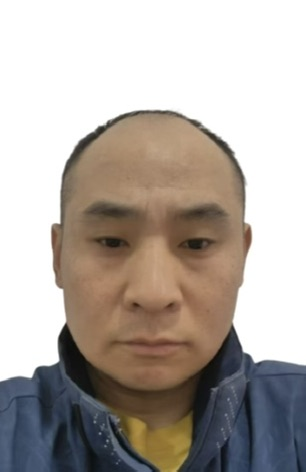
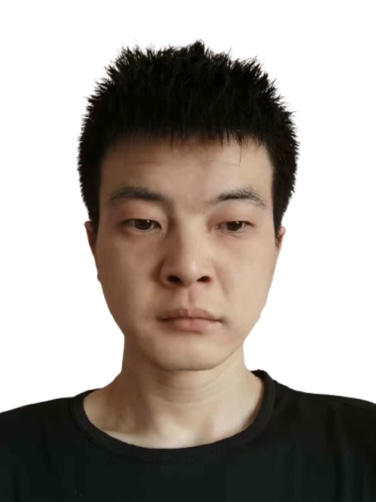
1111

diff --git a/health.html b/health.html
@@ -171,11 +171,11 @@
                                 </tr>
                                  <!-- 海07492100691  44970117  前部分固定形式，后面可变 -->
                                 <tr>
-                                  <td style="font-size: 10px;font-family: 宋体;font-weight: bold;word-break: break-all;">编号:海0749210069108180434
+                                  <td style="font-size: 10px;font-family: 宋体;font-weight: bold;word-break: break-all;">编号:海0749210069108181919
                                   </td>
                                 </tr>
                                 <tr>
-                                  <td style="font-size: 10px;font-family: 宋体;font-weight: bold;">日期:2026-04-26</td>
+                                  <td style="font-size: 10px;font-family: 宋体;font-weight: bold;">日期:2026-06-16</td>
                                 </tr>
                               </tbody>
                             </table>
@@ -191,7 +191,7 @@
                                       <tbody>
                                         <tr height="27">
                                           <td><span
-                                              style="font-family:宋体; font-size:26px;color: #000000;FONT-WEIGHT: bold;">赵三红<span
+                                              style="font-family:宋体; font-size:26px;color: #000000;FONT-WEIGHT: bold;">张宗尧<span
                                                 style="font-family:宋体; font-size:16px;color: #000000;FONT-WEIGHT: bold;">（男）</span>
                                             </span></td>
                                         </tr>
@@ -201,7 +201,7 @@
                                         </tr>
                                         <tr>
                                           <td><span
-                                              style="font-family:宋体; font-size:11px;color: #000000;FONT-WEIGHT: bold;">身份证号:1426251985********</span>
+                                              style="font-family:宋体; font-size:11px;color: #000000;FONT-WEIGHT: bold;">身份证号:1523221998********</span>
                                           </td>
                                         </tr>
                                       </tbody>
@@ -225,43 +225,43 @@
                                                 <tr align="center">
                                                   <td align="left">细菌性痢疾</td>
                                                   <td>合格</td>
-                                                  <td>2026年04月25日</td>
+                                                  <td>2026年06月15日</td>
                                                 </tr>
 
                                                 <tr align="center">
                                                   <td align="left">伤寒和副伤寒</td>
                                                   <td>合格</td>
-                                                  <td>2026年04月25日</td>
+                                                  <td>2026年06月15日</td>
                                                 </tr>
 
                                                 <tr align="center">
                                                   <td align="left">病毒性肝炎（甲戊肝）</td>
                                                   <td>合格</td>
-                                                  <td>2026年04月25日</td>
+                                                  <td>2026年06月15日</td>
                                                 </tr>
 
                                                 <tr align="center">
                                                   <td align="left">活动性肺结核</td>
                                                   <td>合格</td>
-                                                  <td>2026年04月25日</td>
+                                                  <td>2026年06月15日</td>
                                                 </tr>
 
                                                 <tr align="center">
                                                   <td align="left">化脓性或渗出性皮肤病</td>
                                                   <td>合格</td>
-                                                  <td>2026年04月25日</td>
+                                                  <td>2026年06月15日</td>
                                                 </tr>
 
                                                 <tr align="center">
                                                   <td align="left">霍乱</td>
                                                   <td>合格</td>
-                                                  <td>2026年04月25日</td>
+                                                  <td>2026年06月15日</td>
                                                 </tr>
 
                                                 <tr align="center">
                                                   <td align="left">阿米巴性疾病</td>
                                                   <td>合格</td>
-                                                  <td>2026年04月25日</td>
+                                                  <td>2026年06月15日</td>
                                                 </tr>
 
                                               </tbody>
@@ -308,7 +308,7 @@
                           <td>
                             <font style="FONT-SIZE: 12px;">姓　名：</font>
                           </td>
-                          <td><span style="font-family:黑体; font-size:14px;color: #000000;FONT-WEIGHT: bold;"> 赵三红</span>
+                          <td><span style="font-family:黑体; font-size:14px;color: #000000;FONT-WEIGHT: bold;"> 张宗尧</span>
                           </td>
                         </tr>
                         <tr>
@@ -324,7 +324,7 @@
                           </td>
                           <td width="110"><span
                               style="font-family:黑体; font-size:14px;color: #000000;FONT-WEIGHT: bold;">
-                              2026年04月25日</span></td>
+                              2026年06月15日</span></td>
                         </tr>
                         <tr>
                           <td>
@@ -403,7 +403,7 @@
               姓名
             </td>
             <td colspan="3">
-              &nbsp;赵三红&nbsp;
+              &nbsp;张宗尧&nbsp;
             </td>
             <td colspan="2">
               性别
@@ -417,7 +417,7 @@
               身份证号码
             </td>
             <td colspan="8" style="border-right: 1px solid black;">
-              &nbsp;1426251985********&nbsp;
+              &nbsp;1523221998********&nbsp;
             </td>
           </tr>
           <tr>
@@ -467,7 +467,7 @@
               &nbsp;崔亚欣&nbsp;
             </td>
             <td style="border-right: 1px solid black;">
-              &nbsp;2026年04月25日&nbsp;
+              &nbsp;2026年06月15日&nbsp;
             </td>
           </tr>
           <tr>
@@ -487,7 +487,7 @@
               &nbsp;崔亚欣&nbsp;
             </td>
             <td style="border-right: 1px solid black;">
-              &nbsp;2026年04月25日&nbsp;
+              &nbsp;2026年06月15日&nbsp;
             </td>
           </tr>
           <tr style="padding-top: 10px">
@@ -508,7 +508,7 @@
               &nbsp;王梦丽&nbsp;
             </td>
             <td style="border-right: 1px solid black;">
-              &nbsp;2026年04月25日&nbsp;
+              &nbsp;2026年06月15日&nbsp;
             </td>
           </tr>
           <tr>
@@ -528,7 +528,7 @@
               &nbsp;宋新春&nbsp;
             </td>
             <td style="border-right: 1px solid black;">
-              &nbsp;2026年04月25日&nbsp;
+              &nbsp;2026年06月15日&nbsp;
             </td>
           </tr>
           <tr>
@@ -548,7 +548,7 @@
               &nbsp;刘新武&nbsp;
             </td>
             <td style="border-right: 1px solid black;">
-              &nbsp;2026年04月25日&nbsp;
+              &nbsp;2026年06月15日&nbsp;
             </td>
           </tr>
           <tr style="padding-top: 10px">
@@ -589,7 +589,7 @@
               &nbsp;崔亚欣&nbsp;
             </td>
             <td style="border-right: 1px solid black;">
-              &nbsp;2026年04月25日&nbsp;
+              &nbsp;2026年06月15日&nbsp;
             </td>
           </tr>
           <tr>
@@ -609,7 +609,7 @@
               &nbsp;崔亚欣&nbsp;
             </td>
             <td style="border-right: 1px solid black;">
-              &nbsp;2026年04月25日&nbsp;
+              &nbsp;2026年06月15日&nbsp;
             </td>
           </tr>
           <tr>
@@ -674,7 +674,7 @@
             <td>（盖章有效）</td>
             <td width="280px"></td>
             <td>日期：</td>
-            <td>&nbsp;2026年04月25日</td>
+            <td>&nbsp;2026年06月15日</td>
           </tr>
           <tr height="50px">
             <td colspan="4">&nbsp;</td>
@@ -755,7 +755,7 @@
             </tr>
             <tr>
               <td style="font-size:15px;text-align: right">
-                报告日期：2026年04月25日&nbsp;&nbsp;&nbsp;&nbsp;&nbsp;&nbsp;&nbsp;&nbsp;&nbsp;&nbsp;&nbsp;&nbsp;</td>
+                报告日期：2026年06月15日&nbsp;&nbsp;&nbsp;&nbsp;&nbsp;&nbsp;&nbsp;&nbsp;&nbsp;&nbsp;&nbsp;&nbsp;</td>
             </tr>
           </tbody>
         </table>
@@ -774,7 +774,7 @@
               <td>（盖章有效）</td>
               <td width="280px"></td>
               <td>日期：</td>
-              <td>&nbsp;2026年04月25日</td>
+              <td>&nbsp;2026年06月15日</td>
             </tr>
             <tr height="50px">
               <td colspan="4">&nbsp;</td>
@@ -832,7 +832,7 @@
 
             <tr>
               <td style="font-size:15px;text-align: right" colspan="2">
-                报告日期：2026年04月25日&nbsp;&nbsp;&nbsp;&nbsp;&nbsp;&nbsp;&nbsp;&nbsp;&nbsp;&nbsp;&nbsp;&nbsp;</td>
+                报告日期：2026年06月15日&nbsp;&nbsp;&nbsp;&nbsp;&nbsp;&nbsp;&nbsp;&nbsp;&nbsp;&nbsp;&nbsp;&nbsp;</td>
             </tr>
 
           </tbody>
@@ -852,7 +852,7 @@
               <td>（盖章有效）</td>
               <td width="280px"></td>
               <td>日期：</td>
-              <td>&nbsp;2026年04月25日</td>
+              <td>&nbsp;2026年06月15日</td>
             </tr>
             <tr height="50px">
               <td colspan="4">&nbsp;</td>
